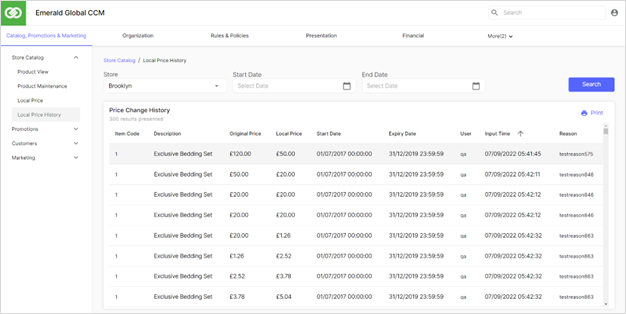
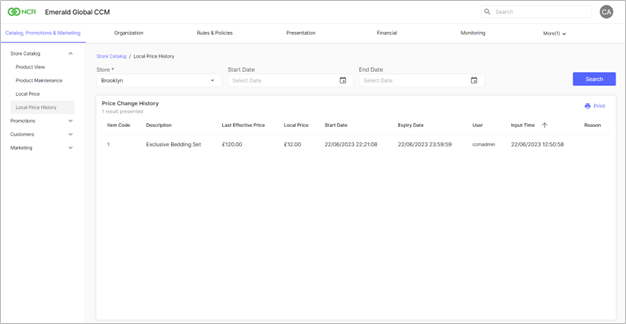
Changes to be committed:

diff --git a/Catalog_Promotions_and_Marketing/Store_Catalog/Local_Price.md b/Catalog_Promotions_and_Marketing/Store_Catalog/Local_Price.md
@@ -2,6 +2,8 @@
 
 **Local Price** is used to update prices in the stores. Prices can be entered for a specific store and applied for a limited time period. The system tracks who made the change and when. Existing prices are not overwritten (even if they are not used) and no access is given to other stores.
 
+If you try to update an item price and the new price is greater than the original price, you are prompted to confirm the price change. You can either confirm the new price or return to the Edit Local Price screen and enter a different price.
+
 When an item is scanned at the POS, the system will display the store’s most recent active price for the item.
 
 **Note:** Local price changes can also be made in the Product Maintenance module in the Price screen, however, the user who made the change is not recorded, and there is no way to track the user who made the change.

diff --git a/Catalog_Promotions_and_Marketing/Store_Catalog/Local_Price_History.md b/Catalog_Promotions_and_Marketing/Store_Catalog/Local_Price_History.md
@@ -13,7 +13,7 @@
 |End Date|The date up to which you want to search for item price changes.|
 |Item Code|The item code for which the price changed.|
 |Item Description|The name of the item for which the price changed.|
-|Original Price|The original price of the item prior to being changed.|
+|Last Effective Price|The original price of the item prior to being changed.|
 |Local Price|The current price of the item, after it was changed.|
 |Start Date|The date on which the new price was applied.|
 |Expiry date|The date on which the new price is no longer applied.|

diff --git a/Logging_in_to_Emerald_Global_CCM/Logging_In_to_Emerald_Global_CCM.md b/Logging_in_to_Emerald_Global_CCM/Logging_In_to_Emerald_Global_CCM.md
@@ -9,3 +9,7 @@ Access the Emerald Global CCM and in the Log in screen, enter the user name and 
 The Home page is displayed:
 
  ![Home Page Screen](/Images/HomePageScreen.png)
+
+* Domain/module – each one is represented by a tile and each tile includes an icon, title, and description  
+* Search field – used to search for a specific module  
+* Logout icon – displays the user’s initials  
